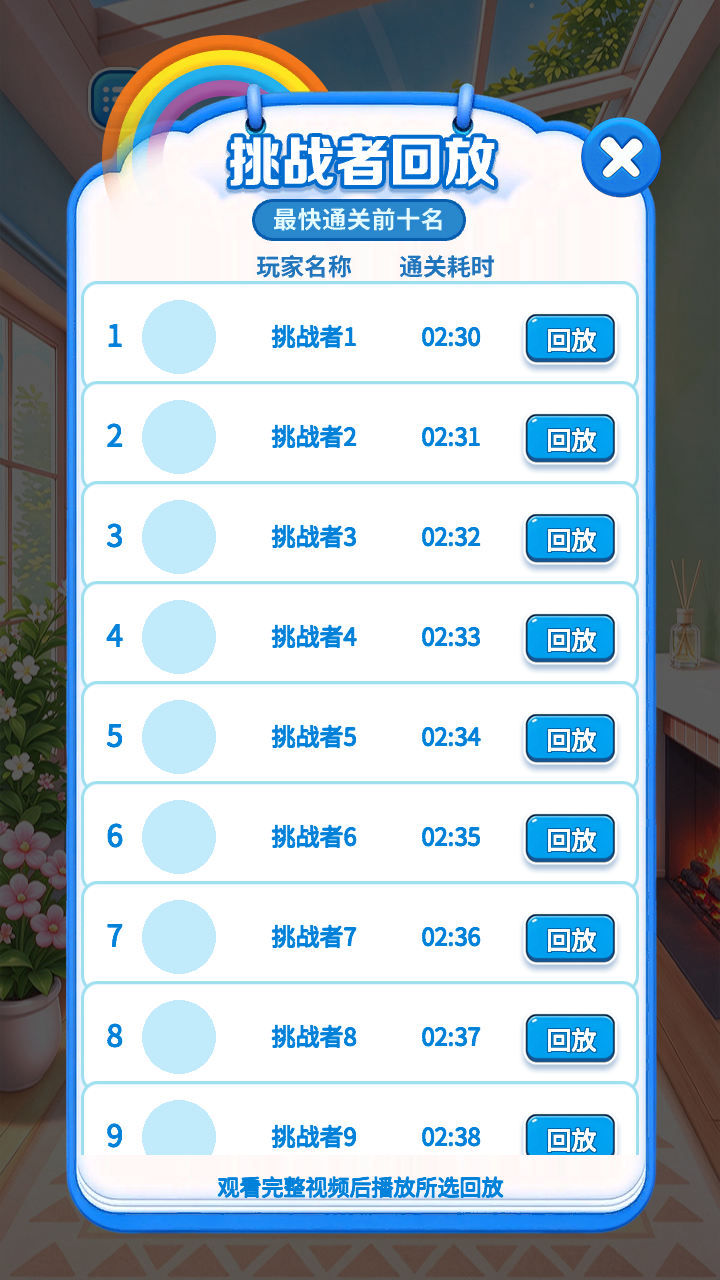
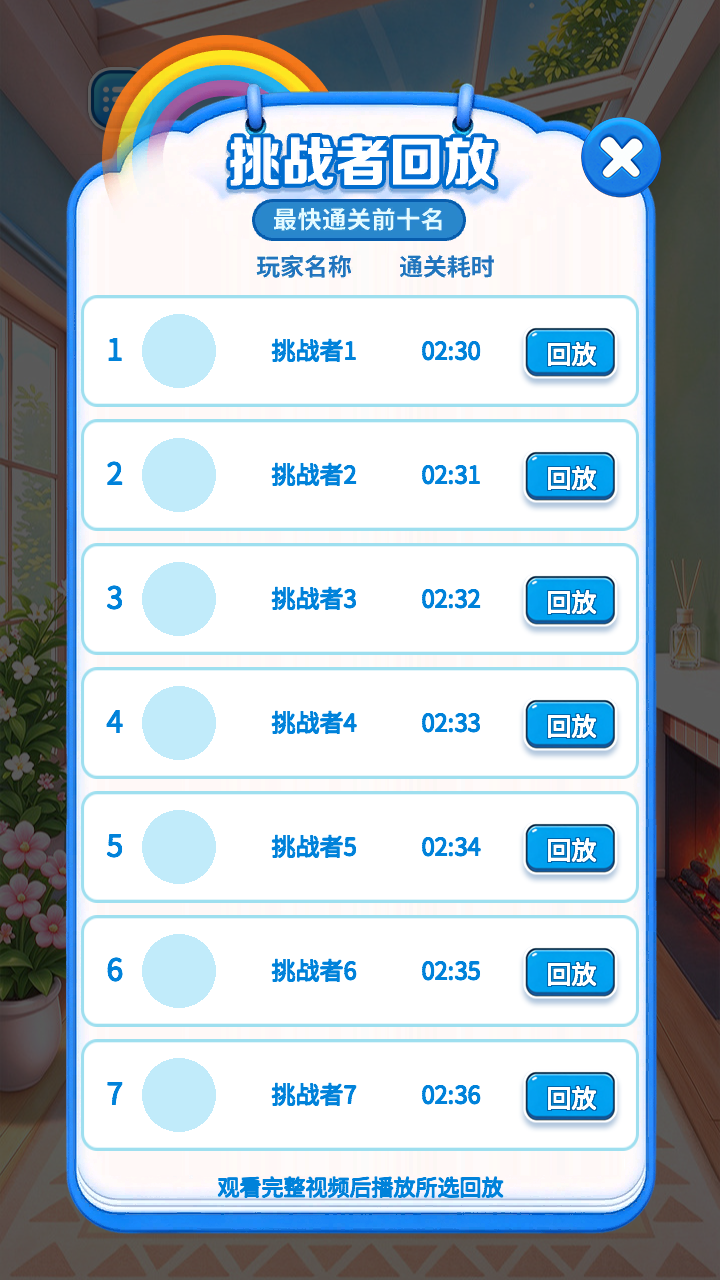
fix: prevent overlapping master replay rows

Changed region(s): [[0.0917, 0.2188, 0.8861, 0.9062]]

diff --git a/Assets/Match3D/Scripts/PotMasterReplayView.cs b/Assets/Match3D/Scripts/PotMasterReplayView.cs
@@ -5,6 +5,7 @@ using UnityEngine.Networking;
 using UnityEngine.UI;
 
 public sealed class PotMasterReplayView : MonoBehaviour {
+    const float RowHeight=112,RowGap=12,RowStride=RowHeight+RowGap,ViewportHeight=856;
     public RectTransform content;public Text status;public Button retry,close;
     Match3DFlow flow;Action dismiss;string owner,date;PotReplayService.Reply list;
     readonly PotMasterReplayAccess access=new PotMasterReplayAccess();
@@ -31,8 +32,8 @@ public sealed class PotMasterReplayView : MonoBehaviour {
         var view=root.gameObject.AddComponent<PotMasterReplayView>();
         Art(design,"Panel","pot-panel",65,35,592,1200);
         var close=Art(design,"Close","pot-close",581,117,81,81);close.raycastTarget=true;view.close=close.gameObject.AddComponent<Button>();view.close.targetGraphic=close;
-        var viewport=Rect(design,"Viewport",81,281,558,874);viewport.gameObject.AddComponent<Image>().color=Color.clear;viewport.gameObject.AddComponent<RectMask2D>();
-        view.content=Rect(viewport,"Rows",0,0,558,1000);var scroll=viewport.gameObject.AddComponent<ScrollRect>();scroll.viewport=viewport;scroll.content=view.content;scroll.horizontal=false;scroll.movementType=ScrollRect.MovementType.Clamped;
+        var viewport=Rect(design,"Viewport",81,295,558,ViewportHeight);viewport.gameObject.AddComponent<Image>().color=Color.clear;viewport.gameObject.AddComponent<RectMask2D>();
+        view.content=Rect(viewport,"Rows",0,0,558,ViewportHeight);var scroll=viewport.gameObject.AddComponent<ScrollRect>();scroll.viewport=viewport;scroll.content=view.content;scroll.horizontal=false;scroll.movementType=ScrollRect.MovementType.Clamped;
         view.status=Label(design,"Status","正在加载…",100,1162,520,48,22);
         view.retry=MakeButton(design,"Retry","重试",270,670,180,72);view.retry.gameObject.SetActive(false);
         return view;
@@ -59,10 +60,10 @@ public sealed class PotMasterReplayView : MonoBehaviour {
     public void Render(PotReplayService.Reply reply){
         if(list!=null&&list.levelVersion!=reply.levelVersion)access.Cancel();
         list=reply;foreach(Transform child in content)Destroy(child.gameObject);
-        if(!PotMasterReplayAccess.Visible(reply,date)){status.text="当前关卡通关回放不足 6 个";content.sizeDelta=new Vector2(558,874);return;}
+        if(!PotMasterReplayAccess.Visible(reply,date)){status.text="当前关卡通关回放不足 6 个";content.sizeDelta=new Vector2(558,ViewportHeight);return;}
         int index=0;foreach(var item in reply.list){
             if(index>=10)break;var selected=item;
-            var row=Art(content,"Pot replay row "+(index+1),"pot-row",0,index*100,558,112);
+            var row=Art(content,"Pot replay row "+(index+1),"pot-row",0,index*RowStride,558,RowHeight);
             Label(row.transform,"Rank",(++index).ToString(),14,28,40,50,30);
             var avatar=Rect(row.transform,"Avatar",61,19,74,74).gameObject.AddComponent<PotAvatarGraphic>();avatar.color=new Color32(193,235,250,255);avatar.raycastTarget=false;
             avatar.gameObject.AddComponent<PotMasterReplayAvatar>().Load(selected.avatarUrl);
@@ -70,7 +71,7 @@ public sealed class PotMasterReplayView : MonoBehaviour {
             int seconds=Mathf.Max(0,Mathf.FloorToInt(item.duration));Label(row.transform,"Duration",$"{seconds/60:00}:{seconds%60:00}",322,29,96,50,24);
             MakeButton(row.transform,"Watch","回放",437,30,105,64,25).onClick.AddListener(()=>Watch(selected));
         }
-        content.sizeDelta=new Vector2(558,Mathf.Max(874,index*100+12));status.text="观看完整视频后播放所选回放";
+        content.sizeDelta=new Vector2(558,Mathf.Max(ViewportHeight,index*RowStride-RowGap));status.text="观看完整视频后播放所选回放";
     }
     void Watch(PotReplayService.Summary row){
         if(!Current()||loading||list==null)return;

diff --git a/docs/validation/pot-master-replay/README.md b/docs/validation/pot-master-replay/README.md
@@ -16,7 +16,7 @@
 - `integration.txt` 记录真实本地 HTTP + Unity Play Mode 验证，覆盖入口、十条列表、取消/重复广告、失败重试、账号切换、关闭页面的迟到回调、实际录像播放、退出返回、重看再次广告、广告期间关卡版本变化及错误重试。
 - 原个人回放完整回归通过，包含开始挑战原样、个人上传状态、下载提示、取消下载、实际播放与退出；见 `personal-replay-regression.txt`。
 - 原生 JS 广告回调、持久化队列和 HTTP 路由测试通过；测试使用隔离存储与公共统计转发替身，不调用生产广告统计。
-- `home.png`、`list-short.png` 和 `list-tablet.png` 为 Unity 渲染结果。第十条通过滚动查看。
+- `home.png`、`list-short.png` 和 `list-tablet.png` 为 Unity 渲染结果。列表行高 112、行间距 12，排列步长 124；首屏完整显示七行，后续通过滚动查看。已修正原先步长 100 导致的相邻底板重叠，并重新通过完整集成验证。
 
 ## 运行
 
